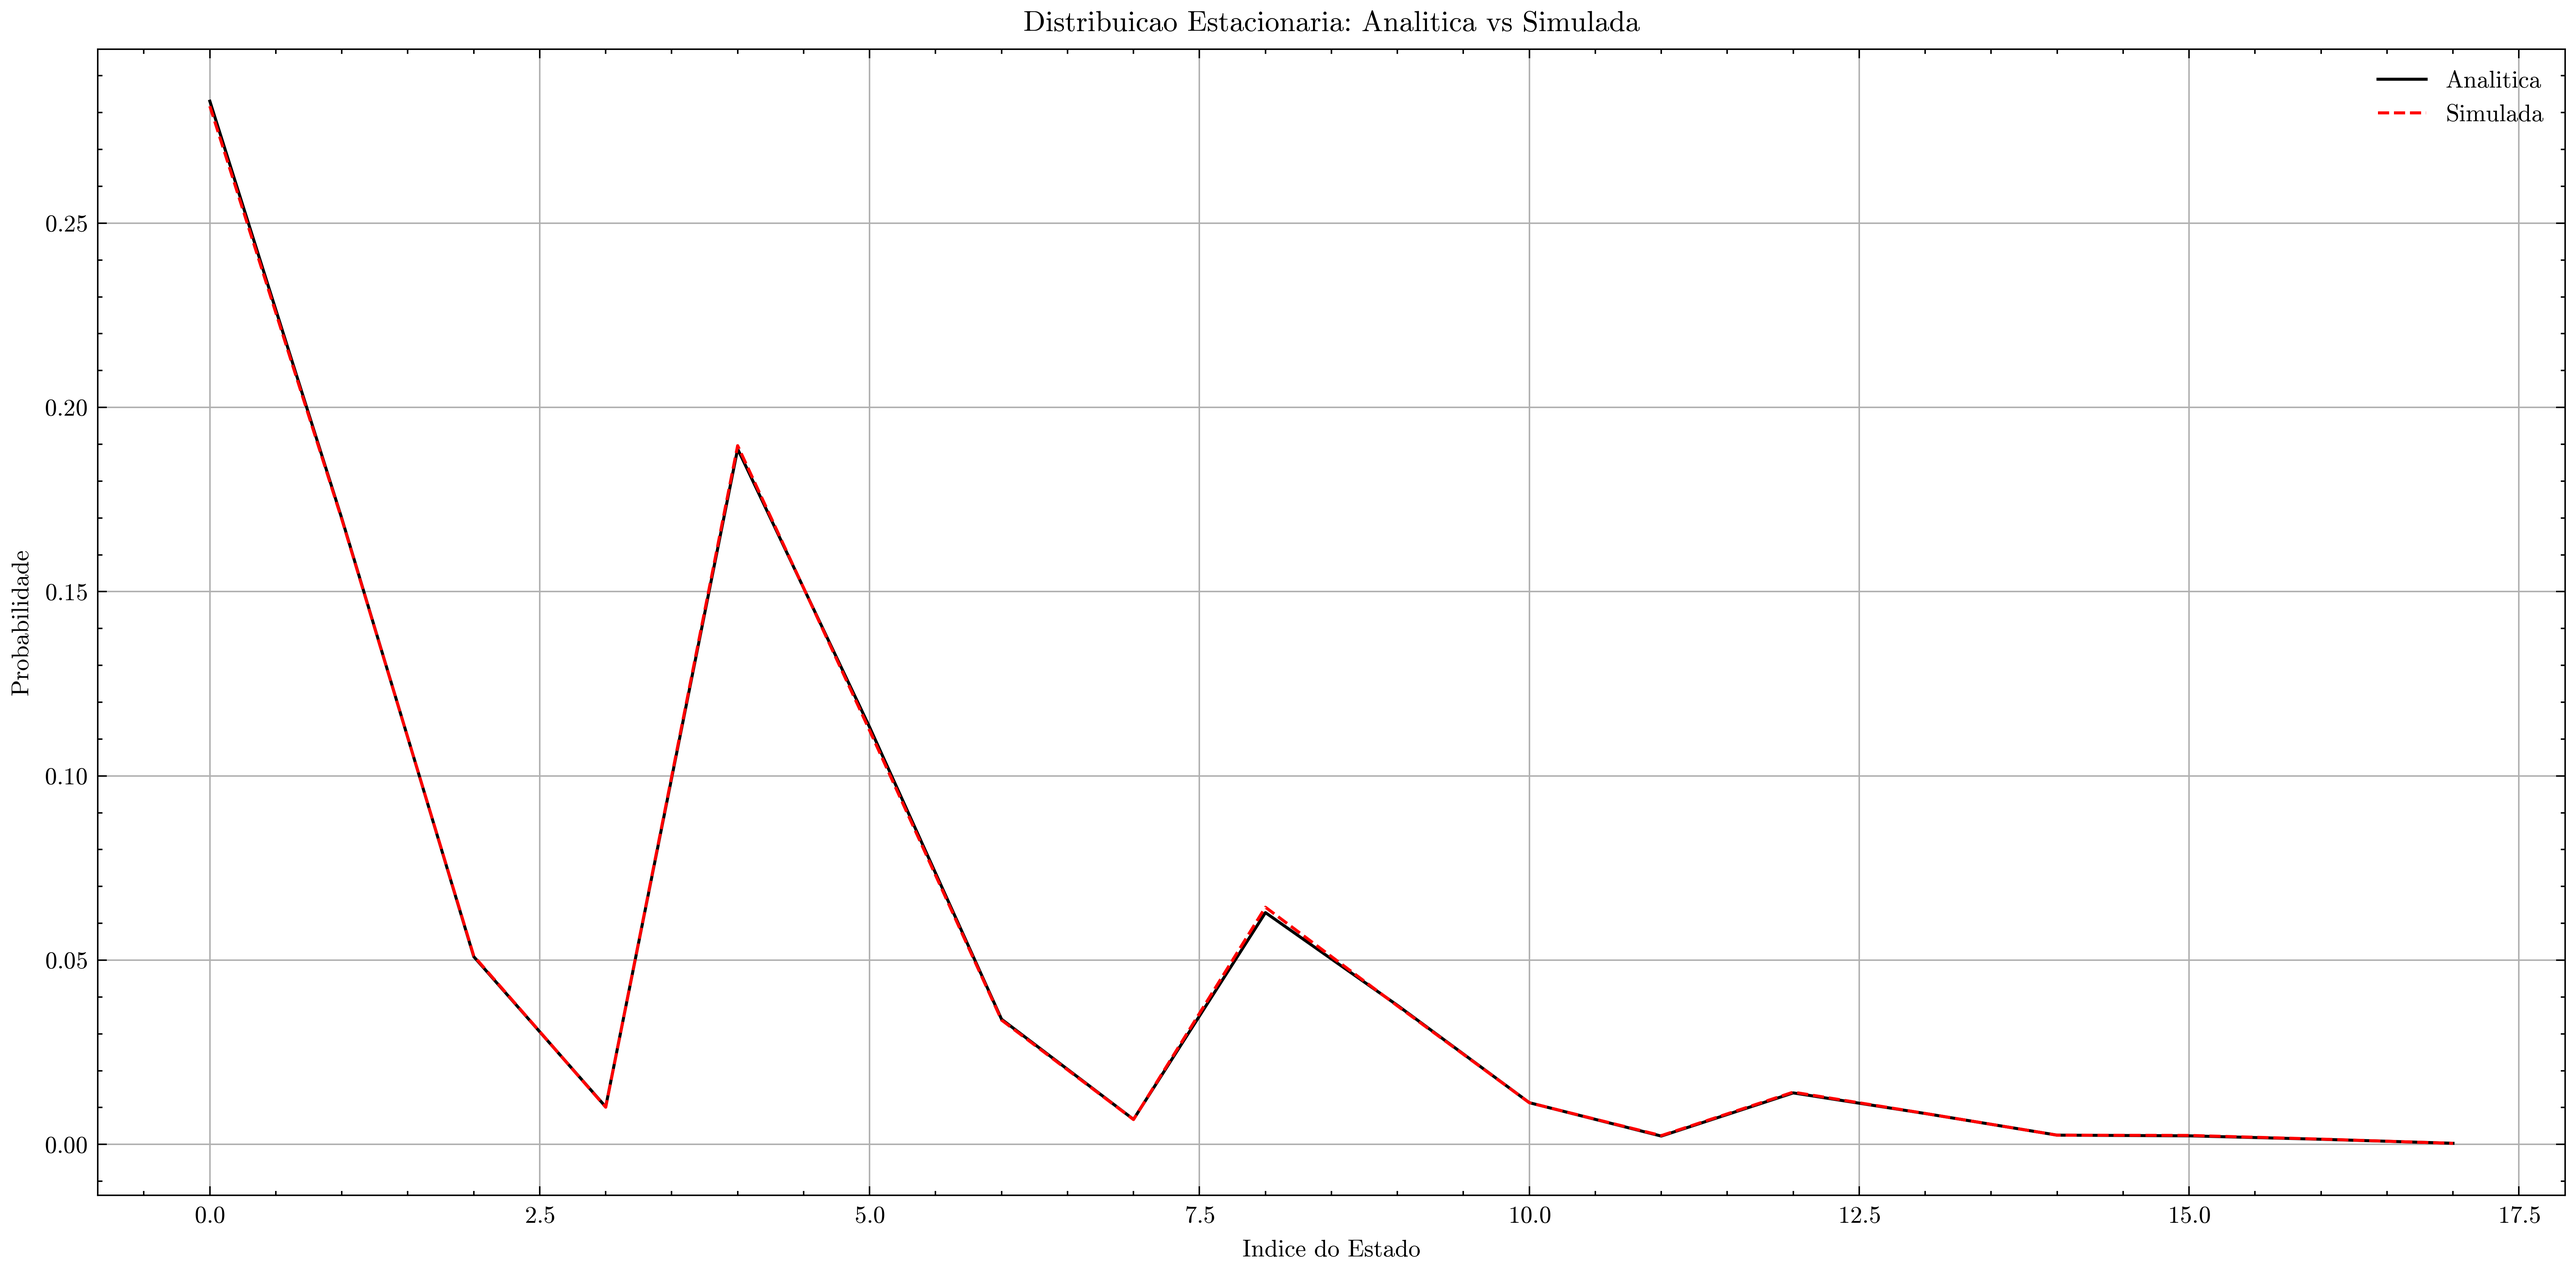
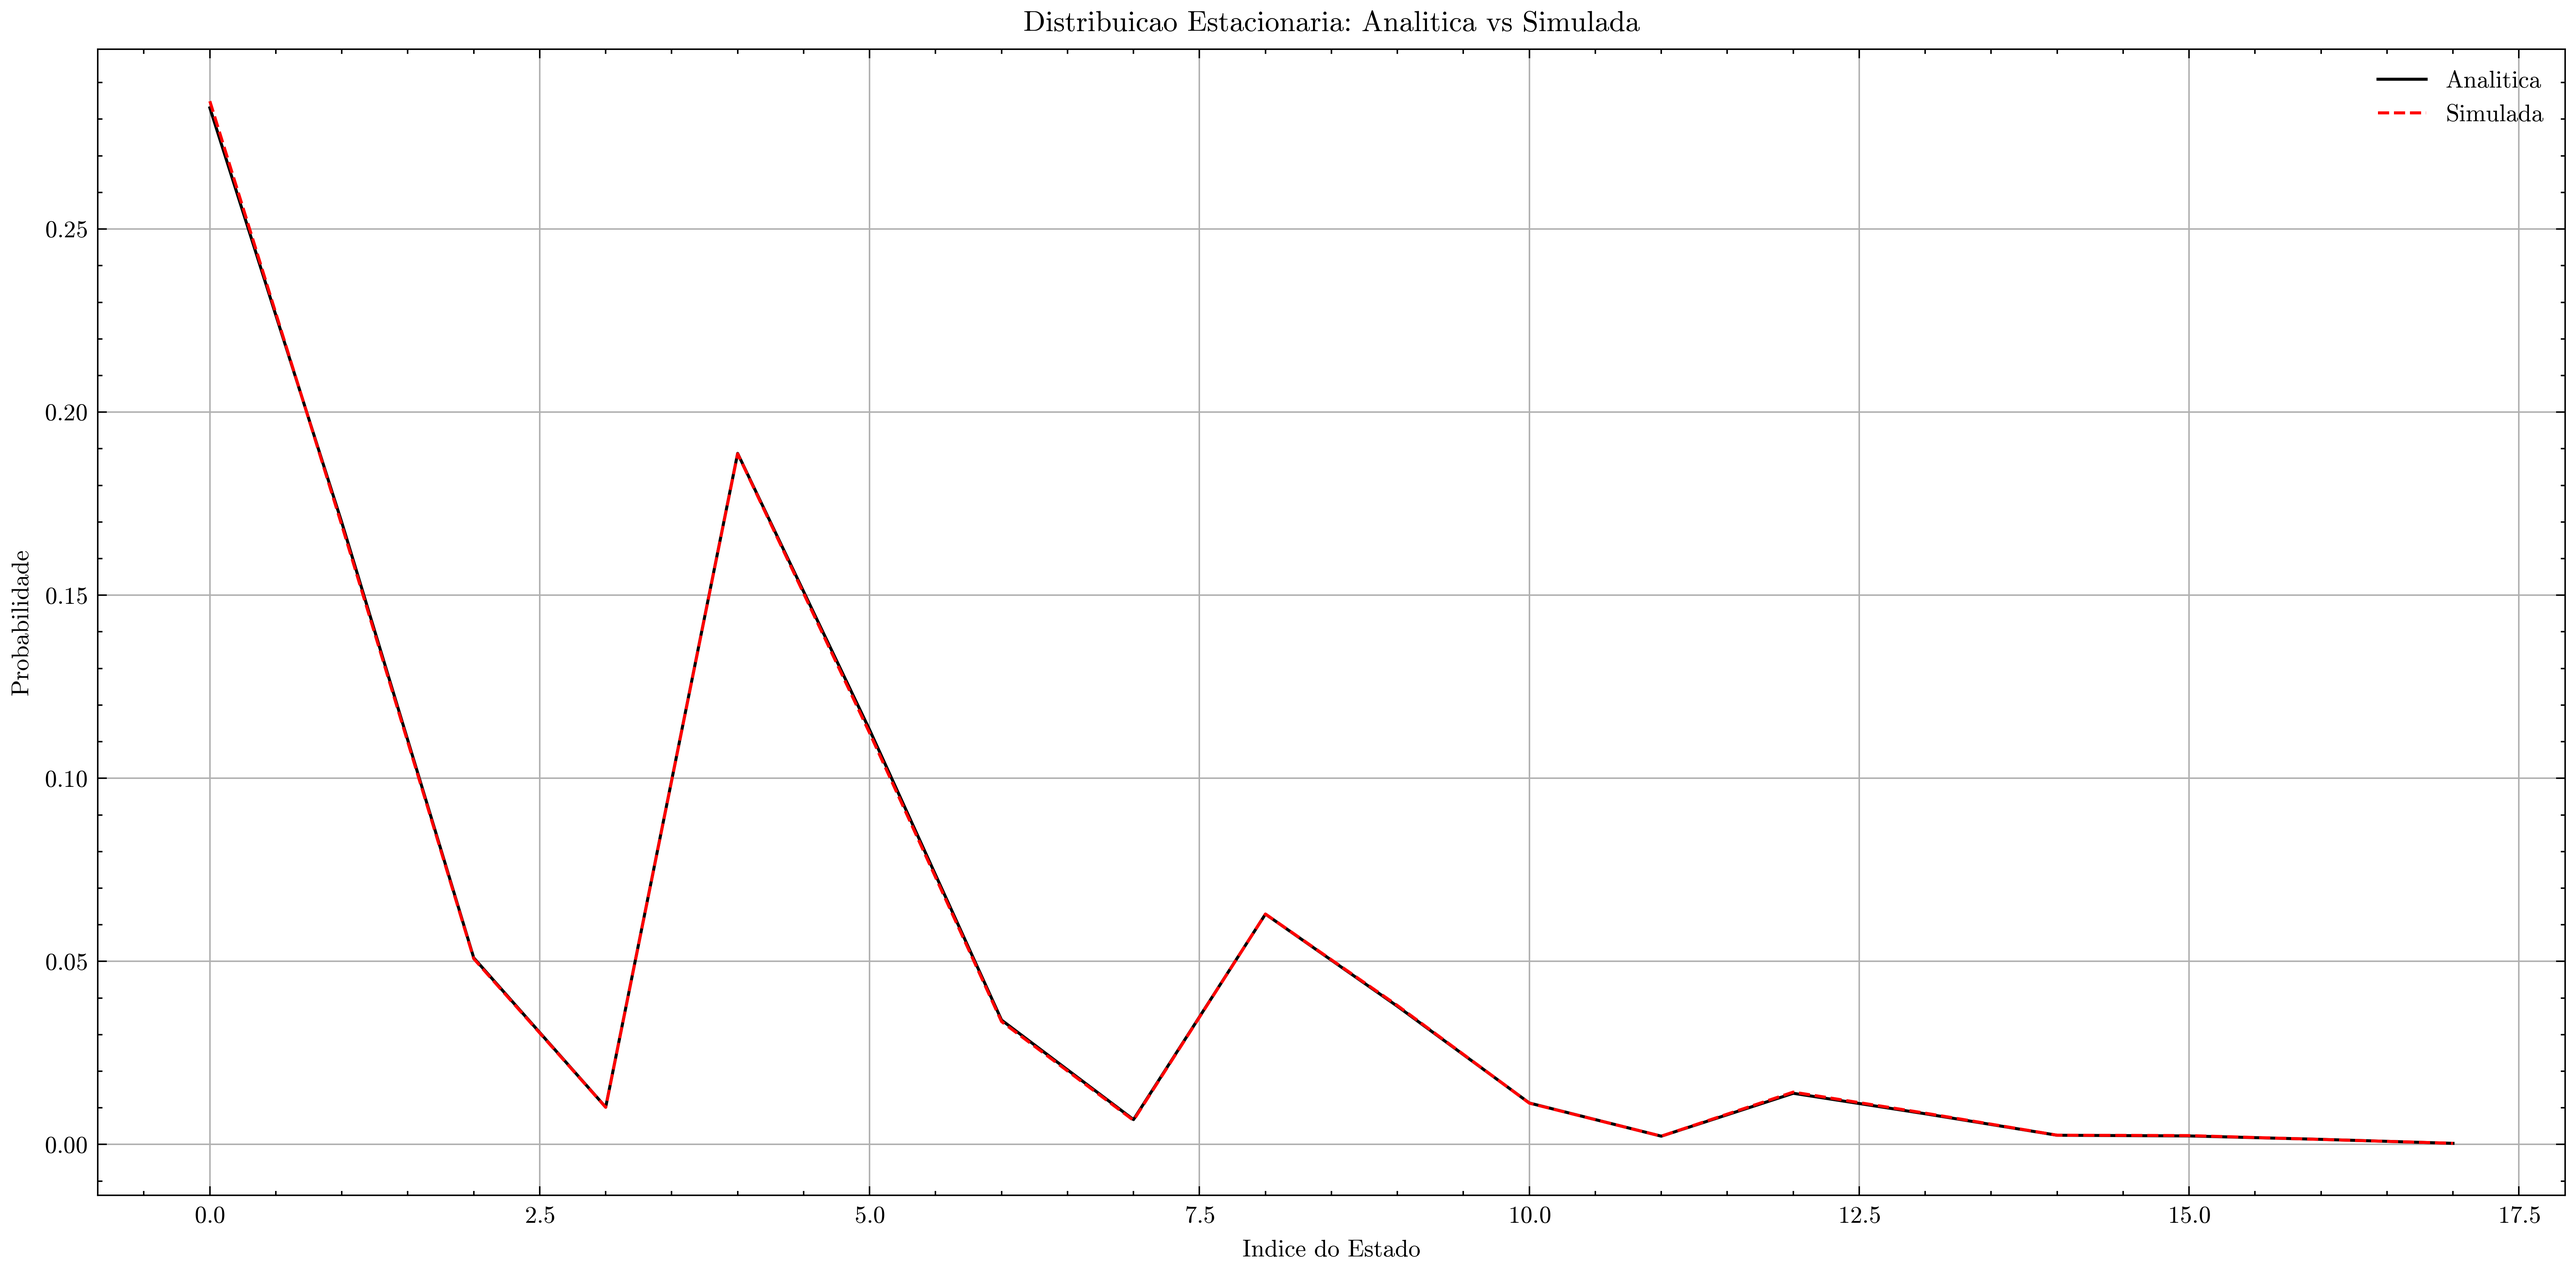
:sparkles: feat: ajuste calculo da matriz P

diff --git a/a2.2/main.py b/a2.2/main.py
@@ -63,6 +63,8 @@ for i, (n1, n2) in enumerate(states):
     # Diagonal principal
     Q[i, i] = -np.sum(Q[i, :])
 
+print(Q)
+
 # ===============================
 # SOLUÇÃO ANALÍTICA: πQ = 0
 # ===============================
@@ -132,14 +134,32 @@ while current_time < T:
     current_time += dt
     state_counts[i] += dt
 
-    # Sorteio do destino
-    r = random.uniform(0, total_rate)
-    acc = 0
-    for rate, next_state in rates:
-        acc += rate
-        if r < acc:
-            current_state = next_state
-            break
+    # Forma antiga
+
+    # r = random.uniform(0, total_rate)
+    # acc = 0
+    # for rate, next_state in rates:
+    #     acc += rate
+    #     if r < acc:
+    #         current_state = next_state
+    #         break
+
+    # Cálculo da probabilidade de transição P(i, j) a partir da matriz de taxas Q:
+    # Para j ≠ i:
+    # 
+    #     P(i, j) = Q(i, j) / -Q(i, i)
+    #
+    # Essa fórmula converte taxas de transição da CTMC em probabilidades condicionais
+    # de transição, úteis para sorteio do próximo estado após o tempo de estadia.
+    # Construir vetor de probabilidades de transição a partir de taxas
+
+
+    probabilities = [rate / total_rate for rate, _ in rates]
+    next_states = [s for _, s in rates]
+
+    # Escolher próximo estado com base nas probabilidades
+    current_state = random.choices(next_states, weights=probabilities, k=1)[0]
+
 
 # Estimativa de π por simulação
 pi_sim = state_counts / np.sum(state_counts)
